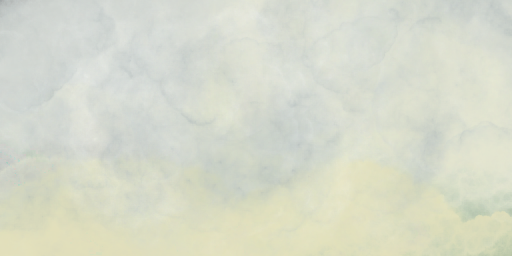
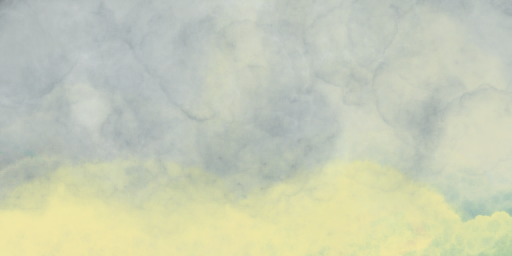
A8 part 3, the two grey skies baked (idle, 0 src edits during the job): sky_overcast now darker above (136 vs 153) and lighter at the horizon (170); sky_bleach grey-blue above (193 vs 214) with a lit yellow band low (220). Not yet seen in a level.

diff --git a/PRODUCTION_LOG.md b/PRODUCTION_LOG.md
@@ -23,7 +23,8 @@
 - 2026-11-14, A8 ACCENT LAMPS + GREY SKY RECIPES, node only (the owner's "Do lamps, then grey skies but do both"; local commits, NOT pushed; NOT SEEN in a browser).
   - Accent lamps (commit 8951d7e): `tools/dev/accent-lamps.mjs <looks.json>` picks, for each map whose look still has no pair, one floor cell 5 to 18 m ahead of its hero view (in view, a little aside, seen without a wall between, not on a prop, within 3 m of the view's floor) and writes `src/render/accents.js`; `levelmesh.js` draws a hanging `lamp` (roof up to 4.5 m) or a `lamppost` and lights the walls with it. New tints `blue` (light 0x5c8cff) and `amber` (0xff8a34) in `models.js` LAMP_TINTS (now exported); `makeLampPost(tint)` keeps its own colours with no tint. RENDER ONLY: the sim's maps do not carry them, so routes and fingerprints are unchanged; a post is drawn only and has no collision, so a post must stand against a wall. 29 maps have one; 13 have no such spot (C1E1M02 C1E1M08 C1E3M05 C1E3M06 C1E3M08 C1E4M07 C2M12 C2M18 C2M20 C2M23 C2M25 C2M28 C2S02): they need a real lamp in their map source (a map edit, stales its route evidence). A hanging accent lamp in a 2.6 m room hangs at head height, as every prop lamp already does. `tests/accents.test.js` (on a floor, not a prop, post against a wall, tint exists, one light per accent at its place, not leaked into the map); code-health + frame loop 11 of 11.
   - Grey skies (recipes only): `sky_overcast` (`tools/baker/recipes_g2.js`, used by C1E2M06 C1E2S01 C1E3S01 C2M22) from an even grey-lilac ramp to darker cloud above and a lit warm band at the horizon (clouds kept above it); `sky_bleach` (`recipes_pt21.js`) from near-white throughout to a grey-blue glare above and a lit yellow-green horizon band. THE BAKE DID NOT RUN: the launch was refused for want of the owner's explicit yes for that job, so `assets/baked` is unchanged and the game still shows the old skies.
-  - **EXACT NEXT TASK:** on the owner's named yes, the bake of the two skies only (`powershell -File tools/dev/low.ps1 D:\Doom_release\awe\a8sky\bake.log tools/bake.mjs sky_overcast sky_bleach`); then, on a separate yes, one hero shoot of the 29 accent maps plus the sky maps, the look table re-measured against `looks-a8d.json`.
+  - SKIES BAKED (the owner's "Yes, bake skies"; idle, SwiftShader, `D:\Doom_release\awe\a8sky\bake.log`; 165 s and 162 s): `assets/baked/sky_overcast.png`, `sky_bleach.png` and the manifest. Mean brightness by 32-row band, top to horizon: Overcast was 153 154 153 149 147 151 161 166 (flat), now 136 133 132 130 134 144 157 170; Bleach was 214 217 218 216 213 213 215 217 (flat), now 193 195 195 194 194 200 214 220. Bleach reads as planned by eye (grey-blue above, a yellow band low); Overcast moved the right way but much less than its recipe's ramp (the brush washes soften the bands): darker top by 17, not by 90. If it still reads grey in the frames, its bands want `g.solid` bases (the p5.brush note in AGENTS.md).
+  - **EXACT NEXT TASK:** on the owner's named yes, one hero shoot of the 29 accent maps plus the four overcast maps and the bleach maps (`tools/dev/shoot-hero.mjs D:/Doom_release/awe/a8e <IDs>` through `tools/dev/low.ps1`, GPU=1), the look table re-measured against `looks-a8d.json`; then the 13 maps without an accent spot get a real lamp in their source.
 - 2026-11-14, A7, HAND VIEWS FOR THE FOUR THAT LIGHT ALONE DID NOT MOVE, node only (the owner's "Views for those four"; local commit, NOT pushed; NOT SEEN in a browser). Each chosen from the map's grid and source (`maps-src/hero-views.json`, `by: "hand"`); no map file changed, so no landmark was added (each place already has its subject in reach of the new view).
   - C1E2M06 Pump Cathedral (29.5, 9.5, yaw -2.8, pitch -0.3): from the north gallery 8 m up, looking south-south-east and down over the sump at the great pump, the east catwalks and the south gallery. Was: the ground floor of the entrance end, looking east into the pump's face.
   - C2M16 Sounding Deep Heart (62.5, 44.5, yaw west, pitch 0.3): in the east lobe, 14 cells (28 m) from the heart-mass, looking up at it hung over the waist. Was: the exit corridor, 38 cells away, where the fog ate it.
